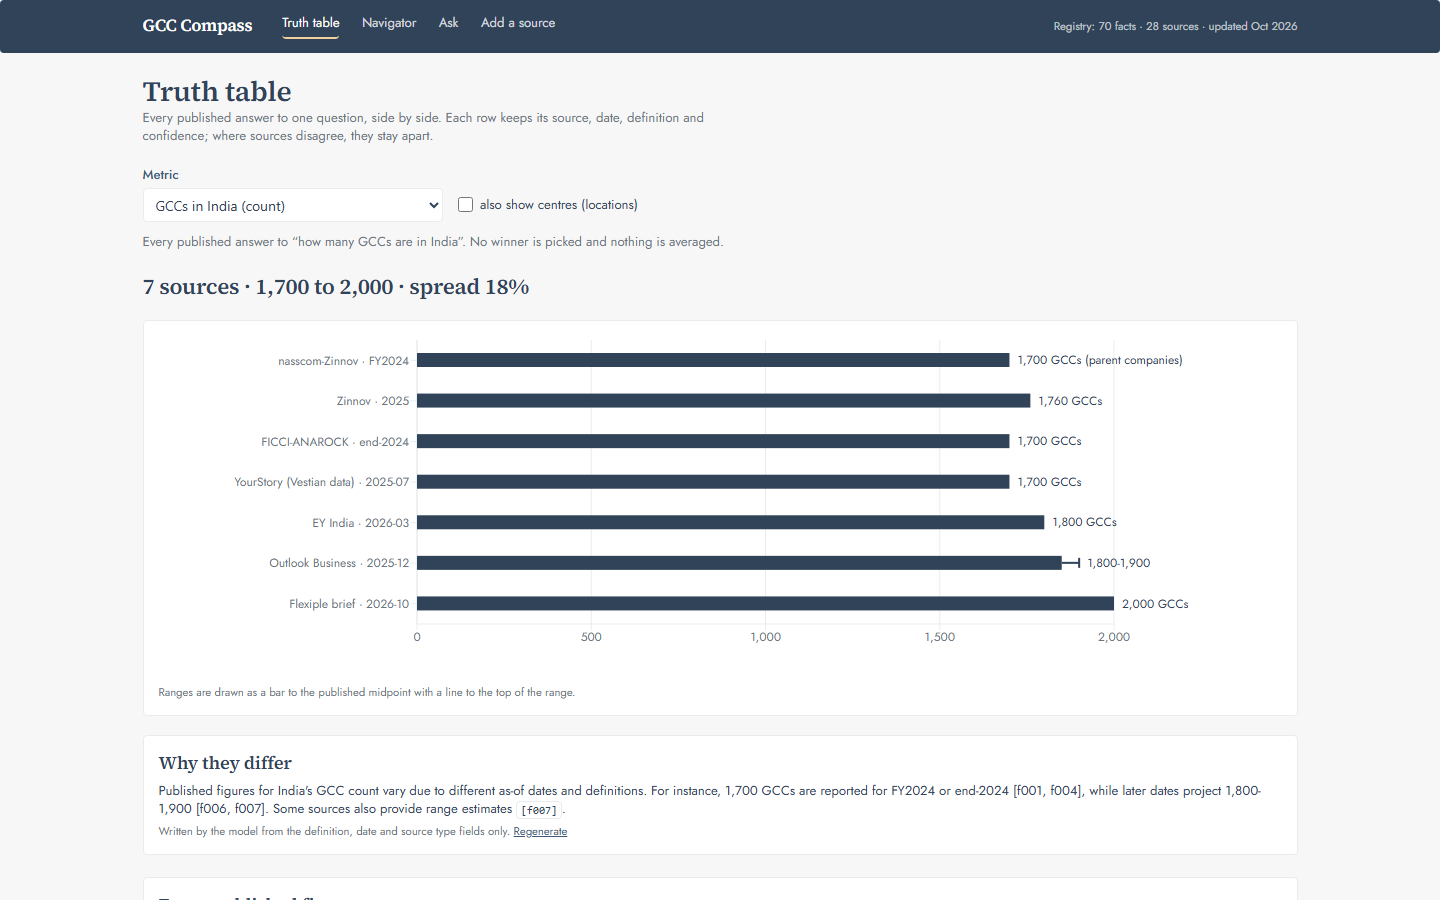
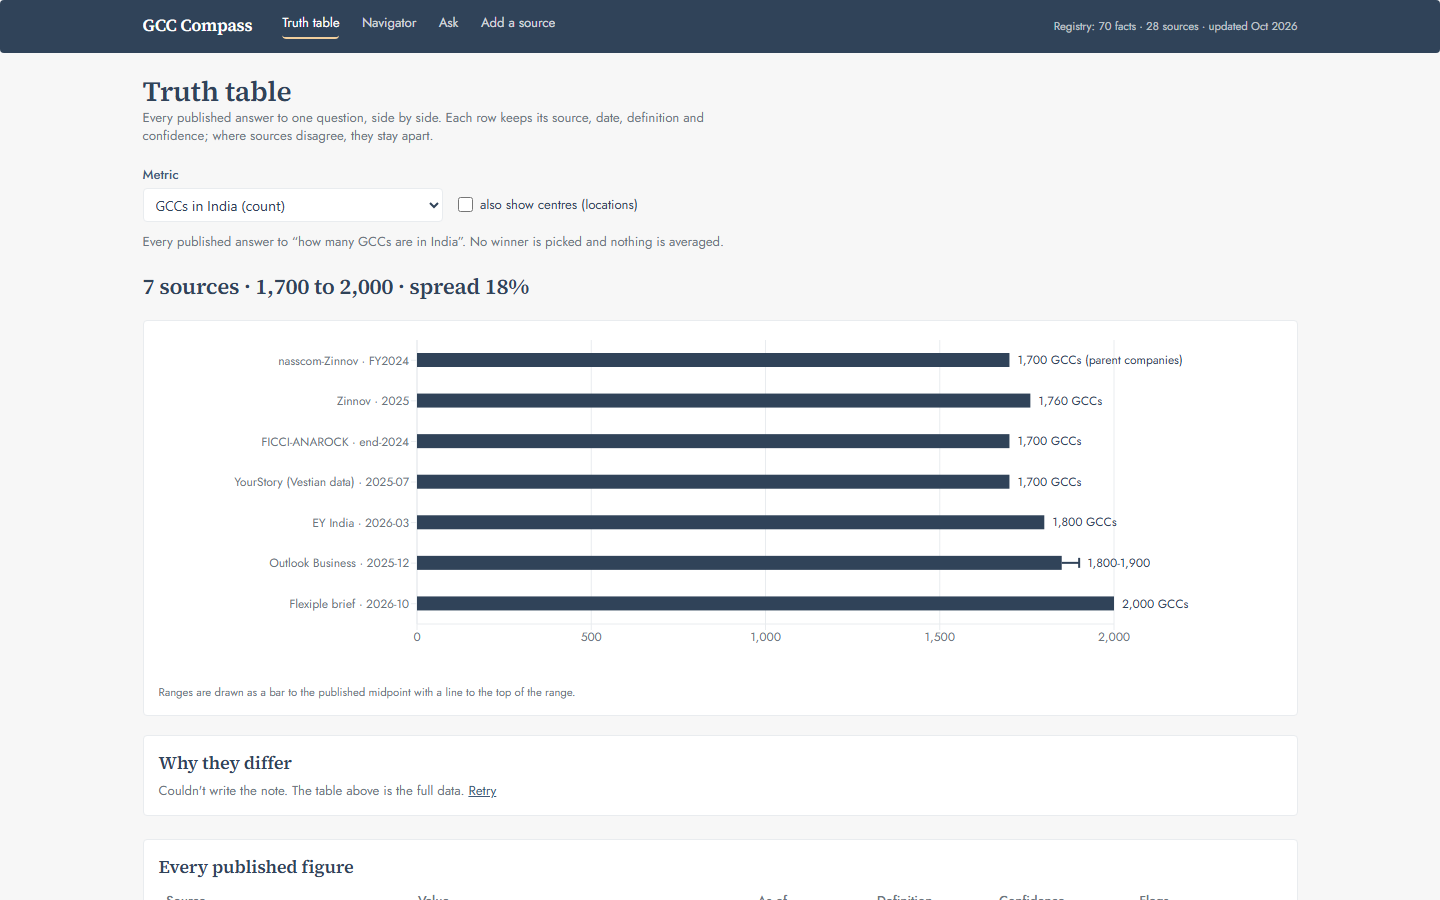
no raw ids or internal wording in user-facing text
Citations: the matcher only recognised a single [f402], so a note that cited
'[f001, f008]' - which is what the model writes when it cites several at once -
reached the page as literal text. Both forms now render as chips, verified in the
browser: '[f001, f008], and one range [f007]' becomes three chips with no id left
in prose. The matching regex needs a capture group because String.split only
returns matched text when the pattern captures, or every citation is dropped.

Internal wording replaced with plain language: the 'written by the model from the
definition, date and source type fields' note, the 'midpoint stored; range in
value_text' definitions, 'Answered from 0 facts and 1 policy', 'Parts not
confirmed in the registry', and 'Engineering hiring was selected'. A missing rule
input asked for 'your investment_inr_cr' - our field name, not something a reader
ever typed - and now asks for 'your planned India investment'; the Python
reference and its expected-output fixture move with it, so the port is still
tested against the original rule wording.

The cost formula showed rent_y, seats_y and salary_y; it now reads 'Rent x seats =
seats x 150 sq ft x rent...' in the same words the estimate is described in below.

Add a source rows read 'Telangana | GCC policy status' instead of 'state:TS |
gcc_policy_status', and a missing definition falls back to what the metric
measures rather than a dash.
[…]

diff --git a/components/add-source/addSourceShared.ts b/components/add-source/addSourceShared.ts
@@ -11,6 +11,87 @@ export const ALLOWED_ENTITY_IDS = new Set<string>([
 ]);
 
 /**
+ * Metric ids in the words a reviewer would use. The raw key is our internal name;
+ * a row on the review screen should read "GCC policy status", not
+ * "gcc_policy_status", the same way the truth table names things.
+ */
+/**
+ * What each metric means, for the review screen's Definition line. The model
+ * often leaves definition_note empty, and "—" tells a reviewer nothing about what
+ * they are approving; these are the same definitions the truth table uses.
+ */
+export const METRIC_DEFINITIONS: Record<string, string> = {
+  gcc_count: "Companies counted as having a GCC centre in India",
+  gcc_centre_count: "Individual centres or units, where one company can run several",
+  gcc_count_records: "GCC mentions in an employer database, one record per company",
+  gcc_count_2030_projection: "Projected GCC count for 2030",
+  gcc_talent_share_pct: "Share of a city's tech workforce at GCC companies",
+  office_rent_grade_a: "Monthly rent per sq ft for Grade A office space",
+  attrition_pct: "Annual attrition rate at GCCs in the city",
+  swe_ctc_mid: "Annual cost to company of a mid-level software engineer",
+  swe_ctc_discount_vs_blr_pct: "Mid-level salary versus Bengaluru",
+  gcc_policy_status: "Whether the state has a GCC fiscal incentive policy",
+  approval_process: "How a GCC gets state approvals",
+  incentive_capex_pct: "Capital expenditure subsidy",
+  incentive_rental_pct: "Rental subsidy",
+  incentive_payroll: "Support paid per employee per month",
+  eligibility_min_employees: "Minimum employees the policy needs",
+  eligibility_min_investment_inr_cr: "Minimum investment the policy needs",
+};
+
+export const METRIC_LABELS: Record<string, string> = {
+  gcc_count: "GCC count",
+  gcc_centre_count: "GCCs and centres",
+  gcc_count_records: "GCCs per database record",
+  gcc_count_2030_projection: "2030 GCC projection",
+  gcc_talent_share_pct: "GCC talent share",
+  office_rent_grade_a: "Grade A office rent",
+  attrition_pct: "Attrition",
+  swe_ctc_mid: "Mid-level salary",
+  swe_ctc_discount_vs_blr_pct: "Salary vs Bengaluru",
+  gcc_policy_status: "GCC policy status",
+  approval_process: "Approval process",
+  incentive_capex_pct: "Capital subsidy",
+  incentive_rental_pct: "Rental subsidy",
+  incentive_payroll: "Payroll support",
+  eligibility_min_employees: "Minimum employees",
+  eligibility_min_investment_inr_cr: "Minimum investment",
+};
+
+/** Human name for a metric id, falling back to reading the key out in words. */
+export function metricLabel(metric: string): string {
+  const known = METRIC_LABELS[metric];
+  if (known) return known;
+  return metric.replace(/_/g, " ").replace(/\b\w/g, (c) => c.toUpperCase());
+}
+
+/**
+ * The definition to show for a row. The model's own note wins, since it describes
+ * what this source actually meant; otherwise the metric's standing definition, so
+ * the line says what the fact measures instead of showing a dash.
+ */
+export function metricDefinition(metric: string, note?: string | null): string {
+  if (note && note.trim()) return note;
+  return METRIC_DEFINITIONS[metric] ?? `What "${metricLabel(metric)}" measures`;
+}
+
+/** "Telangana" for TS, "Bengaluru" for bengaluru, the type name for the rest. */
+export function entityLabel(
+  entityType: string,
+  entityId: string | null,
+  entityName: string | null,
+): string {
+  if (entityName) return entityName;
+  if (!entityId) return entityType;
+  const state = seedRegistry.states.find((s) => s.id === entityId);
+  if (state) return state.name;
+  const city = seedRegistry.cities.find((c) => c.id === entityId);
+  if (city) return city.name;
+  if (entityId === "IN") return "India";
+  return entityId;
+}
+
+/**
  * The demo snippet from 05, labelled as paraphrased sample text in the UI.
  *
  * The text is paraphrased, so there is no article to link to. Rather than let the

diff --git a/components/ask/ChatThread.tsx b/components/ask/ChatThread.tsx
@@ -46,6 +46,7 @@ export function ChatThread() {
   const [busy, setBusy] = useState(false);
   const [plan, setPlan] = useState<NavigatorInputs | null>(null);
   const bottomRef = useRef<HTMLDivElement>(null);
+  const inputRef = useRef<HTMLInputElement>(null);
 
   useEffect(() => {
     setPlan(readStoredPlan()?.inputs ?? null);
@@ -114,7 +115,14 @@ export function ChatThread() {
               <li key={s}>
                 <button
                   className="text-sm text-slate border border-rule rounded bg-white px-2.5 py-1 hover:border-slate-light"
-                  onClick={() => ask(s)}
+                  onClick={() => {
+                    // Fill the box rather than sending. The reader may want to
+                    // edit or drop the suggestion, and on a free-tier key a demo
+                    // should not spend a scarce answer on a click they didn't
+                    // mean as final.
+                    setQuestion(s);
+                    inputRef.current?.focus();
+                  }}
                   disabled={busy}
                 >
                   {s}
@@ -175,6 +183,7 @@ export function ChatThread() {
           </label>
           <input
             id="ask-input"
+            ref={inputRef}
             className="h-9"
             placeholder="Ask the registry…"
             value={question}
@@ -221,13 +230,10 @@ function AnswerBody({ text }: { text: string }) {
 }
 
 function CitationFooter({ citations }: { citations: Citation[] }) {
-  const facts = citations.filter((c) => c.kind === "fact").length;
-  const policies = citations.filter((c) => c.kind === "policy").length;
   return (
     <div className="mt-2 border-t border-rule pt-2">
       <p className="text-xs text-muted mb-1">
-        Answered from {facts} fact{facts === 1 ? "" : "s"} and {policies} polic
-        {policies === 1 ? "y" : "ies"}.
+        Answered from {citations.length} sourced claim{citations.length === 1 ? "" : "s"}.
       </p>
       <ul className="flex flex-col gap-1">
         {citations.map((c) => (

diff --git a/components/add-source/ExtractionReview.tsx b/components/add-source/ExtractionReview.tsx
@@ -9,7 +9,7 @@ import { Field, Select, TextArea, TextInput } from "@/components/ui/field";
 import { CitationChip } from "@/components/CitationChip";
 import type { ExtractedT } from "@/lib/types";
 import { factValue } from "@/lib/format";
-import { ALLOWED_ENTITY_IDS } from "./addSourceShared";
+import { ALLOWED_ENTITY_IDS, entityLabel, metricLabel, metricDefinition } from "./addSourceShared";
 
 export interface ApprovedFactInput {
   entity_type: "country" | "city" | "state" | "provider";
@@ -86,10 +86,10 @@ export function ExtractionReview({
         return (
           <Card key={r.index} className="p-3">
             <div className="flex flex-wrap items-center gap-2 mb-2">
-              <span className="font-mono text-[11px] border border-rule bg-white px-1.5 py-0.5">
-                {r.entity_type}:{r.entity_id ?? r.entity_name ?? "?"}
+              <span className="text-[12px] font-medium border border-rule bg-white px-1.5 py-0.5">
+                {entityLabel(r.entity_type, r.entity_id, r.entity_name)}
               </span>
-              <span className="font-mono text-[11px] text-slate">{r.metric}</span>
+              <span className="text-[12px] text-slate">{metricLabel(r.metric)}</span>
               {r.new_metric && <Badge>new metric</Badge>}
               <ConfidenceBadge level={r.suggested_confidence} />
               <span className="ml-auto flex gap-2">
@@ -217,7 +217,7 @@ export function ExtractionReview({
                 </div>
                 <div className="md:col-span-2">
                   <dt className="text-muted inline">Definition: </dt>
-                  <dd className="inline">{r.definition_note ?? "—"}</dd>
+                  <dd className="inline">{r.definition_note ?? metricDefinition(r.metric)}</dd>
                 </div>
                 {r.as_of_defaulted && (
                   <div className="md:col-span-2">

diff --git a/lib/markdown.tsx b/lib/markdown.tsx
@@ -1,11 +1,38 @@
-/** Markdown-lite: citation chips [f402] / [pol_x] and **bold**. */
+/** Markdown-lite: citation chips [f402] / [pol_x] / [f402, pol_x] and **bold**. */
 import { CitationChip } from "@/components/CitationChip";
 
+/** One registry id, as the model is asked to cite them. */
+const ID = "(?:f\\d[\\w]*|pol_[\\w]+)";
+
+/**
+ * A citation is either one id or a comma-separated list of them. The list form is
+ * the reason a naive single-id matcher leaked "[f001, f008]" into the page as
+ * literal text: models write it naturally, and the UI has to read it as chips.
+ *
+ * The outer group is capturing on purpose: String.split only returns the matched
+ * text when the pattern has at least one capture group, so without it every
+ * citation would be dropped from the sentence instead of being chipped.
+ */
+const CITED = new RegExp(`(\\[(?:${ID})(?:\\s*,\\s*(?:${ID}))*\\])`, "g");
+
+const SINGLE = new RegExp(`^\\[(${ID})\\]$`);
+
 export function renderInline(text: string): React.ReactNode[] {
-  const parts = text.split(/(\[(?:f\d[\w]*|pol_[\w]+)\])/g);
+  const parts = text.split(CITED);
   return parts.map((part, i) => {
-    const m = /^\[((?:f\d[\w]*|pol_[\w]+))\]$/.exec(part);
+    const m = SINGLE.exec(part);
     if (m) return <CitationChip key={i} id={m[1]} />;
+    // a list of ids: every id in it becomes its own chip, in order
+    const ids = part.match(new RegExp(ID, "g"));
+    if (ids && part.startsWith("[") && part.endsWith("]")) {
+      return (
+        <span key={i} className="inline-flex flex-wrap items-center gap-1 align-baseline">
+          {ids.map((id, j) => (
+            <CitationChip key={`${i}-${j}`} id={id} />
+          ))}
+        </span>
+      );
+    }
     return <span key={i}>{bold(part, i)}</span>;
   });
 }

diff --git a/tests/markdown.test.ts b/tests/markdown.test.ts
@@ -1,0 +1,39 @@
+import { describe, expect, it } from "vitest";
+import { createElement } from "react";
+import { renderToStaticMarkup } from "react-dom/server";
+import { renderInline } from "../lib/markdown";
+
+/** Rendered once and reused, so the assertions read like the browser's output. */
+const html = (s: string) => renderToStaticMarkup(createElement("div", null, renderInline(s)));
+
+describe("renderInline", () => {
+  it("renders a single id as a citation chip", () => {
+    const out = html("Policy 2025 [pol_mh_2025] applies.");
+    expect(out).toContain('[pol_mh_2025]</a>');
+    expect(out).toContain("font-mono"); // the chip's styling, not plain text
+  });
+
+  it("renders a comma-separated id list as chips, never as literal text", () => {
+    const out = html("Ranges [f001, f008] and mixed [f001, pol_tn_2024].");
+    // every id becomes its own chip
+    expect(out).toContain('[f001]</a>');
+    expect(out).toContain('[f008]</a>');
+    expect(out).toContain('[pol_tn_2024]</a>');
+    // and the list form itself never reaches the page as text
+    expect(out).not.toContain(">[f001, f008]<");
+    expect(out).not.toContain(">[f001, pol_tn_2024]<");
+  });
+
+  it("chips sentence text around them, including bullets", () => {
+    const out = html("* **Capital:** 20% up to ₹100 Cr [pol_mh_2025]");
+    expect(out).toContain(">Capital:</strong>");
+    expect(out).toContain("20% up to ₹100 Cr");
+    expect(out).toContain('[pol_mh_2025]</a>');
+  });
+
+  it("leaves an unmatched bracket alone", () => {
+    const out = html("a [nonsense] bracket stays");
+    expect(out).toContain("[nonsense]");
+    expect(out).not.toContain("font-mono");
+  });
+});

diff --git a/lib/eligibility.ts b/lib/eligibility.ts
@@ -15,10 +15,32 @@ export type RuleInputs = Record<string, unknown>;
  * Rules engine from 04 §5. Inputs are the navigator inputs plus city_id.
  * A missing input is "needs check", never a silent pass or fail.
  */
+/**
+ * The plan fields a rule can ask about, named the way a person filling in the
+ * navigator form would name them. A missing input is "needs check" and has to be
+ * asked for in those words: the raw key (investment_inr_cr) is our naming, not
+ * something the user ever typed.
+ */
+const FIELD_LABELS: Record<string, string> = {
+  hq_country: "HQ country",
+  company_size: "company size",
+  global2000: "whether you're a Global 2000 company",
+  seats_y1: "year-1 seats",
+  seats_y3: "year-3 seats",
+  functions: "functions",
+  open_to_tier2: "whether you're open to Tier-2 cities",
+  investment_inr_cr: "planned India investment",
+  city_id: "city",
+};
+
 export function evaluateRule(rule: Rule, inputs: RuleInputs): { status: EligibilityStatus; reason?: string } {
   const v = inputs[rule.field];
   if (v === undefined || v === null) {
-    return { status: "needs_check", reason: `Need your ${rule.field} to check: ${rule.fail_reason}` };
+    const label = FIELD_LABELS[rule.field] ?? rule.field.replace(/_/g, " ");
+    return {
+      status: "needs_check",
+      reason: `We'd need your ${label} to check this: ${rule.fail_reason}`,
+    };
   }
   const t = rule.value as RuleValue;
   let ok: boolean;

diff --git a/app/api/ask/route.ts b/app/api/ask/route.ts
@@ -23,6 +23,15 @@ const Body = z.object({
 /** Per-IP in-memory rate limit (best effort on serverless: per warm instance). */
 const MAX_TRACKED_IPS = 500;
 const RETRY_AFTER_S = "60";
+
+/**
+ * Generous on purpose. This limit exists to stop one client looping the route, not
+ * to ration a reader: at 20/min a two-minute demo could still trip it on a shared
+ * office IP, and on a free-tier model key the scarce resource is upstream anyway.
+ * The model client already cools off a model after a 429, which is the limit that
+ * actually protects the quota.
+ */
+const ASKS_PER_MINUTE = 60;
 const hits = new Map<string, { count: number; reset: number }>();
 
 function rateLimited(ip: string): boolean {
@@ -37,7 +46,7 @@ function rateLimited(ip: string): boolean {
     return false;
   }
   rec.count += 1;
-  return rec.count > 20;
+  return rec.count > ASKS_PER_MINUTE;
 }
 
 /** Rate-limited by the model service: a 429 the browser can act on. */

diff --git a/components/navigator/CostTable.tsx b/components/navigator/CostTable.tsx
@@ -75,8 +75,10 @@ function FormulaNote({
     <div className="mt-3 border-t border-rule pt-3 text-sm">
       <h4 className="text-[13px] font-medium text-slate mb-1">Formula and assumptions</h4>
       <p className="font-mono text-[12px] bg-paper border border-rule rounded px-2 py-1 mb-2">
-        rent_y = seats_y × {SQFT_PER_SEAT} sq ft × rent ₹/sq ft/month × 12 · salary_y = seats_y ×
-        CTC × {inc === null ? "(1 + increment)^" : `(1 + ${(inc / 100).toFixed(3)})^`}(y−1)
+        Rent × seats = seats × {SQFT_PER_SEAT} sq ft × rent ₹/sq ft/month × 12 months
+        {" · "}
+        Salary × seats = seats × CTC ×
+        {inc === null ? "(1 + annual increase)^" : `(1 + ${(inc / 100).toFixed(3)})^`}(years−1)
       </p>
       <ul className="space-y-0.5 text-[13px]">
         {COST_ASSUMPTIONS.map((a) => (

diff --git a/components/TruthView.tsx b/components/TruthView.tsx
@@ -555,7 +555,7 @@ function WhyNote({ factIds }: { factIds: string[] }) {
             {note.cited_ids.length === 0 ? "Only one source; nothing to reconcile." : renderInline(note.note)}
           </p>
           <p className="text-xs text-muted mt-1">
-            Written by the model from the definition, date and source type fields only.{" "}
+            Written from the dates and definitions above, not from outside sources.{" "}
             <button className="text-slate underline" onClick={load}>
               Regenerate
             </button>

diff --git a/app/api/extract/route.ts b/app/api/extract/route.ts
@@ -27,7 +27,12 @@ const Body = z.object({
 
 const hits = new Map<string, { count: number; reset: number }>();
 const MAX_TRACKED_IPS = 500;
-const EXTRACT_LIMIT = 5; // per minute
+/**
+ * 10/min. Extraction is the most expensive call in the app (a full document in,
+ * structured facts out) and the demo only needs one, so this leaves room to retry
+ * a bad paste without letting one client work the route.
+ */
+const EXTRACT_LIMIT = 10; // per minute
 
 function rateLimited(ip: string): boolean {
   const now = Date.now();

diff --git a/components/navigator/EligibilityCards.tsx b/components/navigator/EligibilityCards.tsx
@@ -199,8 +199,9 @@ function PolicyCard({
         </tbody>
       </table>
       {policy.unverified_parts.length > 0 && (
-        <p className="text-xs text-status-needscheck mb-1">
-          Parts not confirmed in the registry: {policy.unverified_parts.join("; ")}.
+        <p className="text-xs text-muted mb-1">
+          Not yet confirmed by the policy text:{" "}
+          {policy.unverified_parts.join("; ").toLowerCase()}.
         </p>
       )}
       {src && (

diff --git a/tests/eligibility.test.ts b/tests/eligibility.test.ts
@@ -26,7 +26,7 @@ describe("rules engine", () => {
     const r = evaluateRule(up.eligibility_json.all[0], { ...persona, investment_inr_cr: null });
     expect(r.status).toBe("needs_check");
     expect(r.reason).toBe(
-      "Need your investment_inr_cr to check: UP policy requires minimum FDI of ₹50 Cr.",
+      "We'd need your planned India investment to check this: UP policy requires minimum FDI of ₹50 Cr.",
     );
   });
 
